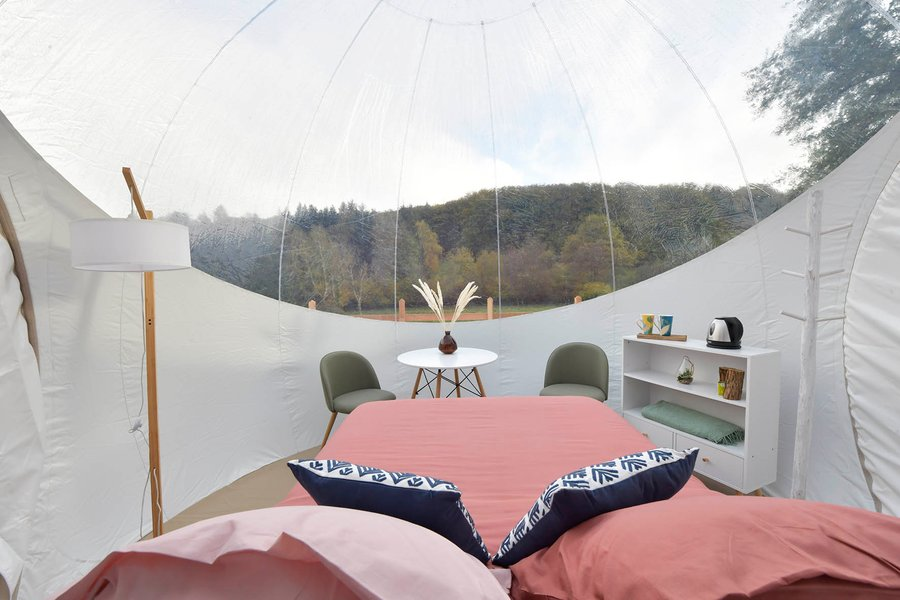
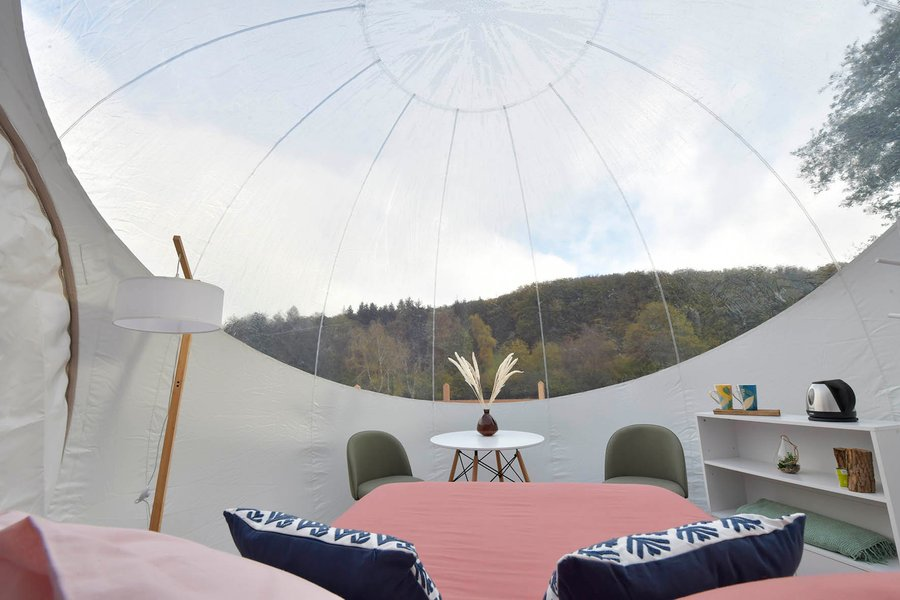
Détails

diff --git a/src/App.css b/src/App.css
@@ -15,8 +15,8 @@ body {
     background-image: url("../img/pexels-jess-loiterton-4603529.jpg");
     background-size: cover;
     background-position: bottom;
-    -webkit-animation: slidein 10s;
-    animation: slidein 10s;
+    -webkit-animation: slidein 15s;
+    animation: slidein 15s;
 
     -webkit-animation-fill-mode: forwards;
     animation-fill-mode: forwards;
@@ -71,6 +71,7 @@ h1 {
 
 .intro {
     text-align: center;
+    font-size: 30px;
 }
 
 .button {
@@ -97,12 +98,15 @@ h1 {
     display: flex;
     flex-direction: column;
     justify-content: center;
+    align-items: center;
     height: 100vh;
+    text-align: center;
 }
 
 .giftButton {
     display: flex;
     justify-content: center;
+    align-items: center;
     height: 100vh;
 }
 
@@ -113,10 +117,11 @@ h1 {
     text-transform: uppercase;
     color: #6f2dbd;
     margin: 20px;
-    padding: 12px 16px;
+    padding: 16px 16px 12px 16px;
     border: none;
     border-radius: 10px;
     cursor: pointer;
+    background-color: rgba(255, 255, 255, 0.7);
 }
 
 .startGameButton:hover {
@@ -221,6 +226,7 @@ h1 {
     display: flex;
     flex-flow: row wrap;
     justify-content: center;
+    margin-bottom: 30px;
 }
 
 .image {
@@ -335,6 +341,10 @@ h1 {
         font-size: 30px;
         letter-spacing: 3px;
         margin: 30px 0 10px 0;
+    }
+    .intro {
+        font-size: 18px;
+        margin: 15px 20px 0 20px;
     }
     .letter {
         font-size: 30px;

diff --git a/src/Components/Gift.js b/src/Components/Gift.js
@@ -13,11 +13,11 @@ const Gift = () => {
                 <h1 className="h1Gift">2 nuits dans une bulle en Bourgogne</h1>
                 <div className="imageGift">
                     <img src={image1} alt="La chambre" className="image" />
-                    {/* <img
+                    <img
                         src={image2}
                         alt="Une autre vue de la chambre"
                         className="image"
-                    /> */}
+                    />
                     <img
                         src={image3}
                         alt="Une 3e vue de la chambre"
